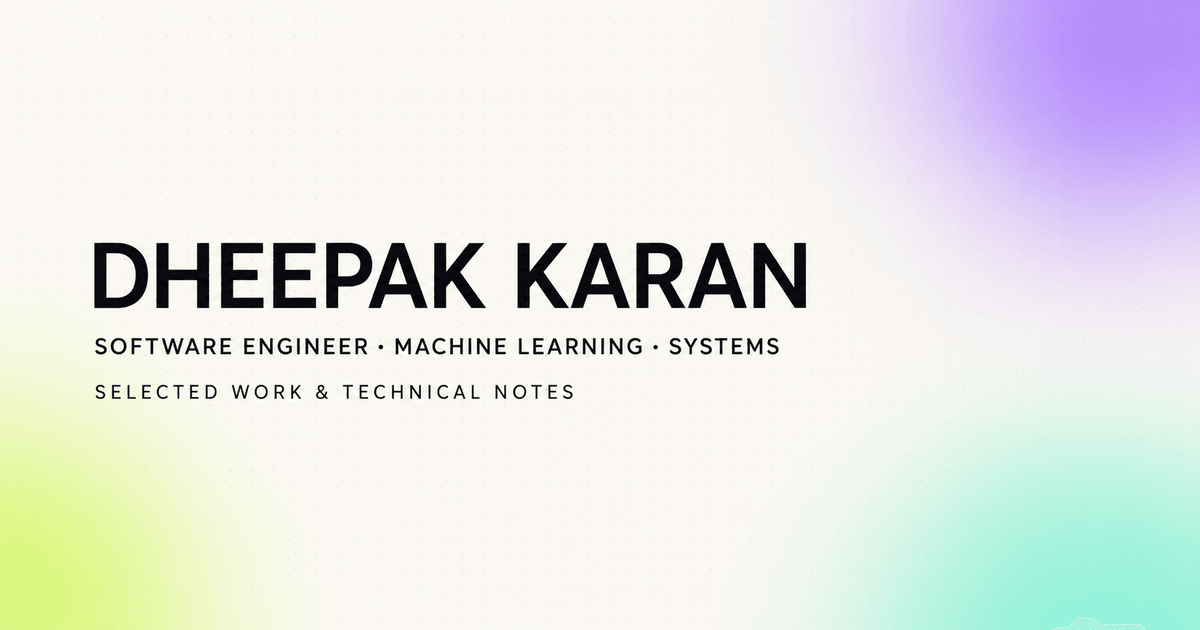
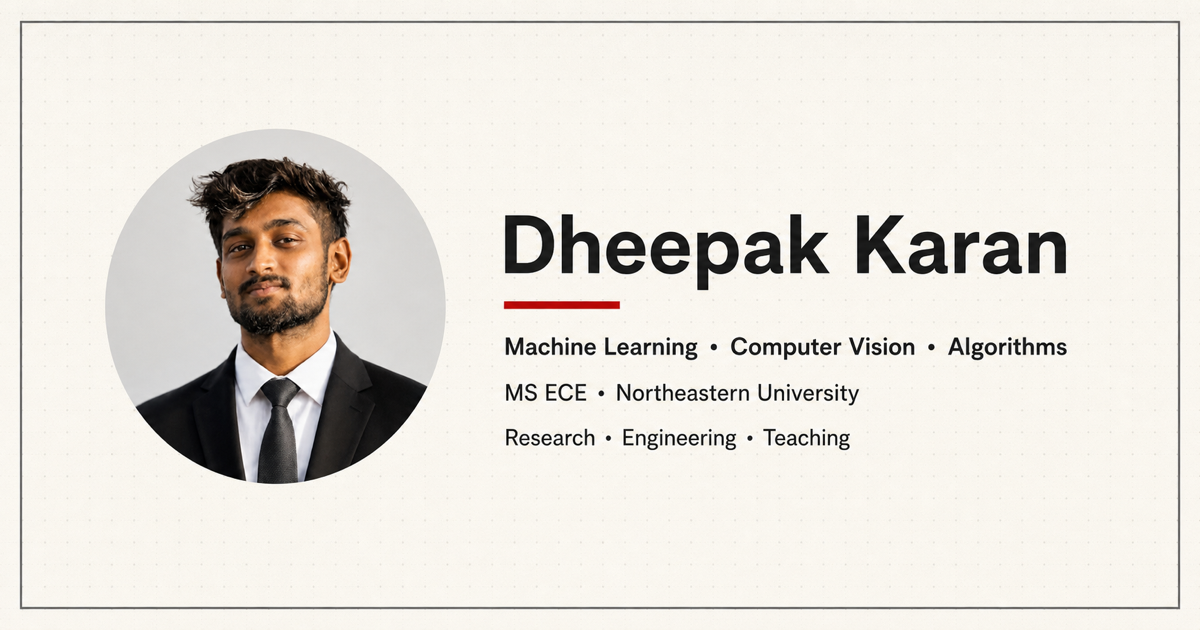
Update academic portfolio preview image

diff --git a/app/layout.tsx b/app/layout.tsx
@@ -36,7 +36,7 @@ export async function generateMetadata(): Promise<Metadata> {
           url: new URL("/og.png", metadataBase).toString(),
           width: 1200,
           height: 630,
-          alt: "Dheepak Karan — Software and Machine Learning Engineer",
+          alt: "Dheepak Karan — ECE academic portfolio",
         },
       ],
     },
